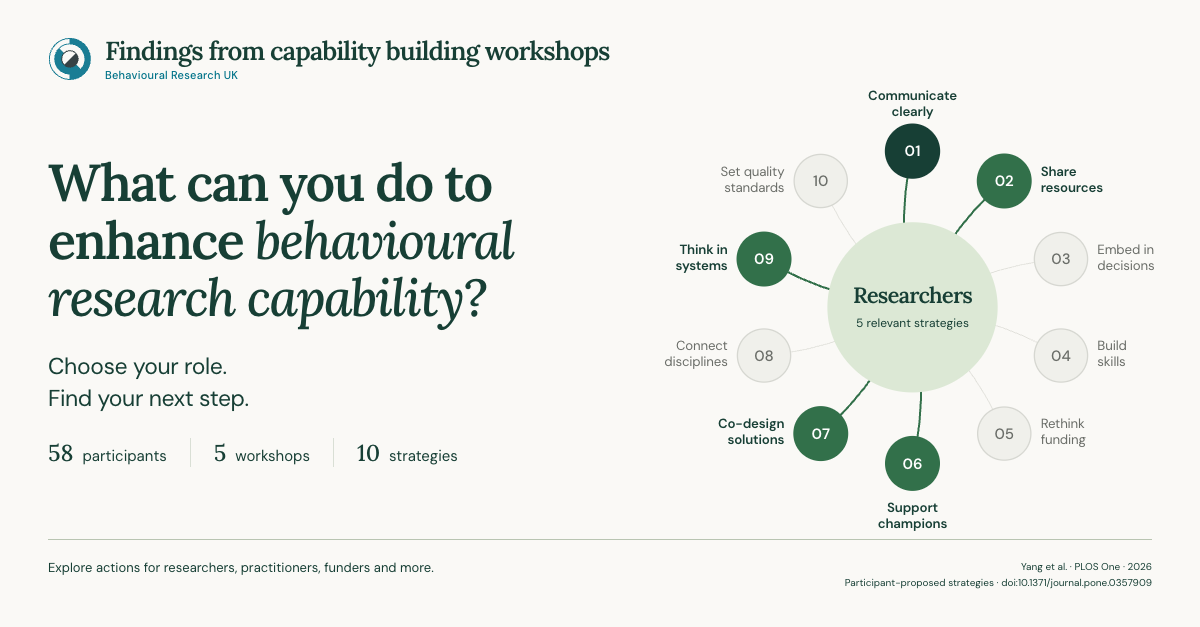
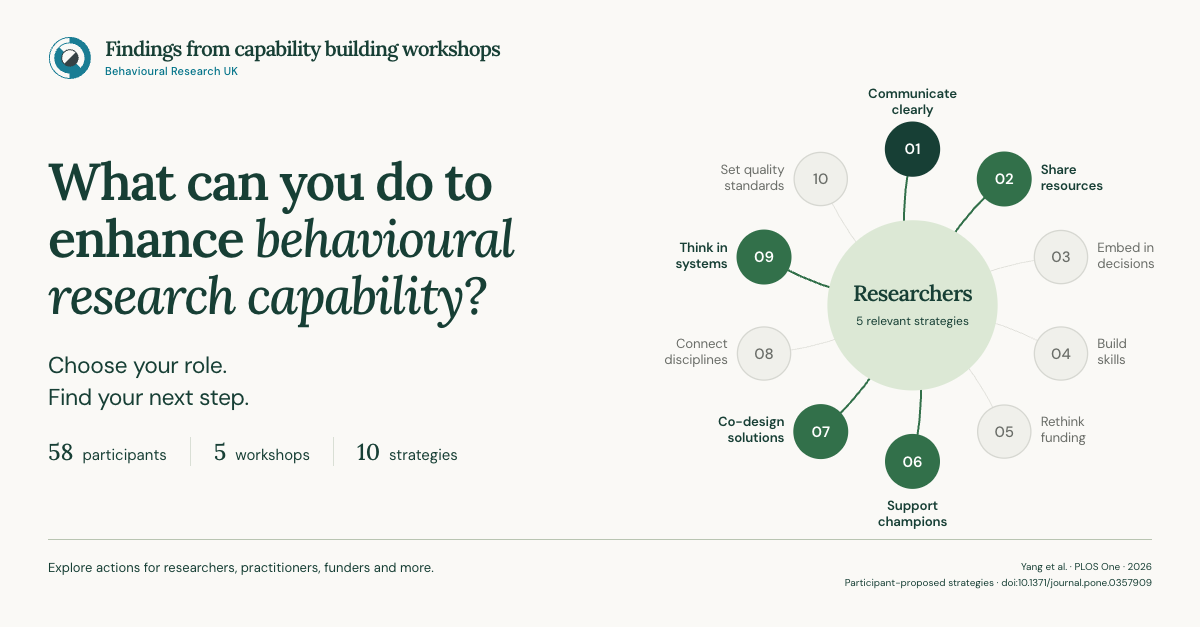
Reduce the workshop title size to emphasise the main question

diff --git a/src/styles.css b/src/styles.css
@@ -114,6 +114,7 @@ button:active {
   min-width: 0;
 }
 .brand-title {
+  font-size: 0.8em;
   line-height: 1.12;
 }
 .brand-subtitle {
@@ -1566,7 +1567,7 @@ h1 em {
     max-width: 145px;
   }
   .site-header .brand-title {
-    font-size: 18px;
+    font-size: 16px;
   }
   .page-shell {
     padding: 0 17px;
